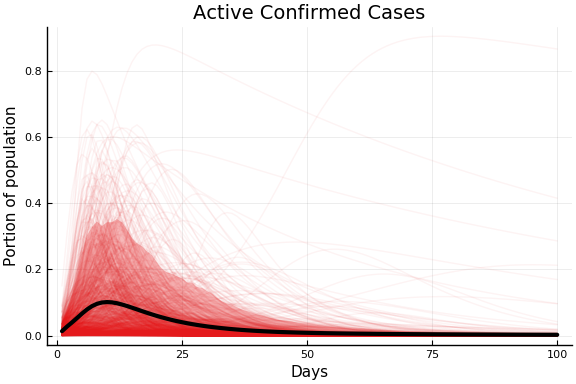
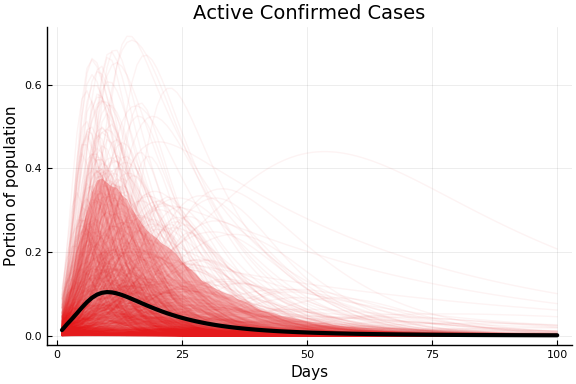
Deployed 2faefc0 with MkDocs version: 1.1

Changed region(s): [[0.0312, 0.2188, 0.9688, 0.9062], [0.0312, 0.1562, 0.0938, 0.25], [0.0312, 0.3438, 0.0938, 0.375]]

diff --git a/us/index.html b/us/index.html
@@ -8,7 +8,7 @@
         <meta name="author" content="Paul Schrimpf">
         
         <link rel="shortcut icon" href="../img/favicon.ico">
-        <title>Us - CovidSEIR.jl</title>
+        <title>United States - CovidSEIR.jl</title>
         <link href="../css/bootstrap.min.css" rel="stylesheet">
         <link href="../css/font-awesome.min.css" rel="stylesheet">
         <link href="../css/base.css" rel="stylesheet">
@@ -38,7 +38,7 @@
                             <li class="navitem">
                                 <a href=".." class="nav-link">Package Docs</a>
                             </li>
-                            <li class="dropdown">
+                            <li class="dropdown active">
                                 <a href="#" class="nav-link dropdown-toggle" data-toggle="dropdown">SEIR Model and Results <b class="caret"></b></a>
                                 <ul class="dropdown-menu">
                                     
@@ -65,6 +65,10 @@
 <li>
     <a href="../china/" class="dropdown-item">China</a>
 </li>
+            
+<li>
+    <a href="./" class="dropdown-item active">United States</a>
+</li>
     </ul>
   </li>
                                 </ul>
@@ -86,6 +90,16 @@
                                 <i class="fa fa-search"></i> Search
                             </a>
                         </li>
+                            <li class="nav-item">
+                                <a rel="prev" href="../china/" class="nav-link">
+                                    <i class="fa fa-arrow-left"></i> Previous
+                                </a>
+                            </li>
+                            <li class="nav-item">
+                                <a rel="next" href="../license/" class="nav-link">
+                                    Next <i class="fa fa-arrow-right"></i>
+                                </a>
+                            </li>
                             <li class="nav-item">
                                 <a href="https://github.com/schrimpf/CovidSEIR.jl/edit/master/docs/us.md" class="nav-link"><i class="fa fa-github"></i> Edit on GitHub</a>
                             </li>
@@ -132,7 +146,7 @@
 <p>This work is licensed under a <a href="http://creativecommons.org/licenses/by-sa/4.0/">Creative Commons Attribution-ShareAlike
 4.0 International
 License</a></p>
-<pre><code class="julia">using CovidSEIR,  Plots, DataFrames, JLD2, StatsPlots
+<pre><code class="julia">using CovidSEIR,  Plots, DataFrames, JLD2, StatsPlots, Dates
 Plots.pyplot()
 jmddir = normpath(joinpath(dirname(Base.find_package(&quot;CovidSEIR&quot;)),&quot;..&quot;,&quot;docs&quot;,&quot;jmd&quot;))
 covdf = covidjhudata()
@@ -170,8 +184,7 @@ n…  │
     │
 </code></pre>
 <h1 id="united-states">United States<a class="headerlink" href="#united-states" title="Permanent link">&para;</a></h1>
-<pre><code class="julia">using Dates
-us = CountryData(covdf, &quot;US&quot;)
+<pre><code class="julia">us = CountryData(covdf, &quot;US&quot;)
 </code></pre>
 
 <pre><code>CountryData{Float64,Int64}(3.2716743e8, [1, 2, 3, 4, 5, 6, 7, 8, 9, 10  …  
@@ -192,44 +205,67 @@ JLD2.@save &quot;$jmddir/us_$(Dates.today()).jld2&quot; cc
 <pre><code class="julia">JLD2.@load &quot;$jmddir/us_2020-03-29.jld2&quot; cc;
 </code></pre>
 
-<pre><code>Error: SystemError: opening file "/home/paul/.julia/dev/CovidSEIR/docs/jmd/
-us_2020-03-29.jld2": No such file or directory
-</code></pre>
 <h2 id="estimates">Estimates<a class="headerlink" href="#estimates" title="Permanent link">&para;</a></h2>
 <pre><code class="julia">plot(cc)
 </code></pre>
 
-<pre><code>Error: UndefVarError: cc not defined
-</code></pre>
+<p><img alt="" src="../figures/us_5_1.png" /></p>
 <pre><code class="julia">describe(cc)
 </code></pre>
 
-<pre><code>Error: UndefVarError: cc not defined
+<pre><code>2-element Array{ChainDataFrame,1}
+
+Summary Statistics
+  parameters       mean       std  naive_se     mcse       ess   r_hat
+  ──────────  ─────────  ────────  ────────  ───────  ────────  ──────
+           a     0.2578    0.2236    0.0035   0.0281   28.9598  1.2084
+         pE0     0.0000    0.0000    0.0000   0.0000   40.7244  1.0737
+        p[1]     0.1550    0.2385    0.0038   0.0353   16.0643  2.1637
+        p[2]     0.1750    0.2168    0.0034   0.0306   16.1263  1.5635
+        sigC  3250.3791  276.8554    4.3775  23.3872  127.0033  1.0383
+        sigD    15.4704    1.3358    0.0211   0.1058  138.2612  1.0541
+       sigRc   130.1036   11.5338    0.1824   1.1225  100.6532  1.0270
+        β[1]     0.6608    0.3892    0.0062   0.0475   25.1584  1.1746
+        β[2]     0.9818    0.5948    0.0094   0.0557   67.5039  1.0378
+        γ[1]     0.0781    0.1758    0.0028   0.0237   16.0643  1.5512
+        γ[2]     0.0627    0.0927    0.0015   0.0127   18.2814  1.3798
+           τ     1.2654    1.2940    0.0205   0.1408   23.9491  1.2885
+
+Quantiles
+  parameters       2.5%      25.0%      50.0%      75.0%      97.5%
+  ──────────  ─────────  ─────────  ─────────  ─────────  ─────────
+           a     0.0726     0.0916     0.1579     0.3530     0.8795
+         pE0     0.0000     0.0000     0.0000     0.0000     0.0000
+        p[1]     0.0044     0.0074     0.0205     0.2561     0.7636
+        p[2]     0.0041     0.0043     0.0610     0.3161     0.7002
+        sigC  2782.5660  3053.9273  3232.2901  3423.3506  3868.8805
+        sigD    13.2108    14.4476    15.3759    16.3514    18.3353
+       sigRc   110.3900   121.3695   129.2608   137.5283   155.6928
+        β[1]     0.0174     0.3448     0.6298     0.9960     1.2932
+        β[2]     0.0845     0.5994     0.9008     1.3112     2.4034
+        γ[1]     0.0003     0.0012     0.0022     0.0277     0.6009
+        γ[2]     0.0003     0.0016     0.0176     0.0925     0.3195
+           τ     0.0060     0.0496     0.9774     2.0367     4.4018
 </code></pre>
 <h2 id="fit">Fit<a class="headerlink" href="#fit" title="Permanent link">&para;</a></h2>
 <pre><code class="julia">sdf = simtrajectories(cc, us, 1:150)
+f = plotvars(sdf, us)
+plot(f.fit, ylim=(0, maximum(us.active)*1.3))
 </code></pre>
 
-<pre><code>Error: UndefVarError: cc not defined
-</code></pre>
-<pre><code class="julia">f = plotvars(sdf, us)
-</code></pre>
-
-<pre><code>Error: UndefVarError: sdf not defined
-</code></pre>
-<pre><code class="julia">plot(f.fit, xlim=nothing, ylim=nothing)
-</code></pre>
-
-<pre><code>Error: UndefVarError: f not defined
-</code></pre>
+<p><img alt="" src="../figures/us_7_1.png" /></p>
 <h2 id="implications">Implications<a class="headerlink" href="#implications" title="Permanent link">&para;</a></h2>
 <pre><code class="julia">for fig in f.trajectories
-  display(plot(fig, xlim=nothing))
+  display(plot(fig))
 end
 </code></pre>
 
-<pre><code>Error: UndefVarError: f not defined
-</code></pre></div>
+<p><img alt="" src="../figures/us_8_1.png" /> <img alt="" src="../figures/us_8_2.png" /> <img alt="" src="../figures/us_8_3.png" />
+<img alt="" src="../figures/us_8_4.png" /> <img alt="" src="../figures/us_8_5.png" /> <img alt="" src="../figures/us_8_6.png" />
+<img alt="" src="../figures/us_8_7.png" /> <img alt="" src="../figures/us_8_8.png" /> <img alt="" src="../figures/us_8_9.png" />
+<img alt="" src="../figures/us_8_10.png" /> <img alt="" src="../figures/us_8_11.png" />
+<img alt="" src="../figures/us_8_12.png" /> <img alt="" src="../figures/us_8_13.png" />
+<img alt="" src="../figures/us_8_14.png" /></p></div>
             </div>
         </div>
 

diff --git a/covid/index.html b/covid/index.html
@@ -65,6 +65,10 @@
 <li>
     <a href="../china/" class="dropdown-item">China</a>
 </li>
+            
+<li>
+    <a href="../us/" class="dropdown-item">United States</a>
+</li>
     </ul>
   </li>
                                 </ul>
@@ -214,9 +218,9 @@ que │
 n…  │
 ├─────┼───────────┼───────────┼─────────────┼───────────┼────────────┼─────
 ────┤
-│ 1   │ Date      │           │ 2020-01-22  │           │ 2020-03-28 │ 67  
+│ 1   │ Date      │           │ 2020-01-22  │           │ 2020-03-29 │ 68  
     │
-│ 2   │ confirmed │ 486.367   │ 0           │ 0.0       │ 121478     │     
+│ 2   │ confirmed │ 521.072   │ 0           │ 0.0       │ 140886     │     
     │
 │ 3   │ Province  │           │ Alberta     │           │ Zhejiang   │ 79  
     │
@@ -226,13 +230,13 @@ n…  │
     │
 │ 6   │ Long      │ 23.2675   │ -135.0      │ 20.9394   │ 178.065    │     
     │
-│ 7   │ deaths    │ 18.9005   │ 0           │ 0.0       │ 10023      │     
+│ 7   │ deaths    │ 20.5945   │ 0           │ 0.0       │ 10779      │     
     │
-│ 8   │ recovered │ 162.121   │ 0           │ 0.0       │ 62098      │     
+│ 8   │ recovered │ 168.91    │ 0           │ 0.0       │ 62570      │     
     │
-│ 9   │ iso2c     │           │ AD          │           │ ZW         │ 170 
+│ 9   │ iso2c     │           │ AD          │           │ ZW         │ 171 
     │
-│ 10  │ cpop      │ 2.27709e8 │ 33785.0     │ 2.49924e7 │ 1.39273e9  │     
+│ 10  │ cpop      │ 2.2813e8  │ 33785.0     │ 2.49924e7 │ 1.39273e9  │     
     │
 │ 11  │ ppop      │ 2.74801e7 │ 41078       │ 1.557e7   │ 111690000  │     
     │
@@ -356,39 +360,39 @@ defaultcountrypriors() = Dict(
 pr.tbl
 </code></pre>
 
-<pre><code>2-element Array{ChainDataFrame,1}
+<pre><code>2-element Array{MCMCChains.ChainDataFrame,1}
 
 Summary Statistics
   parameters    mean      std  naive_se    mcse       ess   r_hat
   ──────────  ──────  ───────  ────────  ──────  ────────  ──────
-           a  0.5263   0.2802    0.0177  0.0144  253.4545  0.9993
-         pE0  0.0790   0.0569    0.0036  0.0013  219.9777  0.9962
-        p[1]  0.2529   0.1830    0.0116  0.0114  250.8090  1.0134
-        p[2]  0.2775   0.1932    0.0122  0.0136  254.2063  1.0005
-        sigC  5.3357  19.4971    1.2331  2.2379  106.4011  1.0048
-        sigD  2.6446   2.8749    0.1818  0.0606  255.7700  0.9983
-       sigRc  2.9380   3.2822    0.2076  0.3147  183.8356  0.9997
-        β[1]  1.0184   0.6905    0.0437  0.0276  177.6735  0.9965
-        β[2]  0.9892   0.6673    0.0422  0.0383  306.2808  0.9963
-        γ[1]  0.4392   0.3100    0.0196  0.0236  141.3713  1.0004
-        γ[2]  0.2534   0.1762    0.0111  0.0172  233.4862  0.9990
-           τ  1.6999   1.2119    0.0766  0.0266  194.4783  0.9967
+           a  0.5654   0.2686    0.0170  0.0188  255.2811  0.9997
+         pE0  0.0854   0.0654    0.0041  0.0058  310.1646  0.9974
+        p[1]  0.2459   0.1867    0.0118  0.0113  240.1762  0.9963
+        p[2]  0.2600   0.1719    0.0109  0.0023  362.0081  0.9960
+        sigC  3.4108  10.0378    0.6348  0.9028  174.6732  1.0012
+        sigD  3.1483   3.6424    0.2304  0.4784  109.6841  0.9964
+       sigRc  2.8166   3.5338    0.2235  0.3084  211.0814  0.9962
+        β[1]  0.9970   0.7070    0.0447  0.0903  442.4055  1.0014
+        β[2]  1.0751   0.7259    0.0459  0.0050  420.5231  0.9960
+        γ[1]  0.4729   0.3576    0.0226  0.0133  493.1301  0.9960
+        γ[2]  0.2401   0.1790    0.0113  0.0155  307.0043  0.9960
+           τ  1.7502   1.3210    0.0835  0.0229  420.2080  0.9961
 
 Quantiles
   parameters    2.5%   25.0%   50.0%   75.0%    97.5%
   ──────────  ──────  ──────  ──────  ──────  ───────
-           a  0.0882  0.2886  0.5393  0.7772   0.9620
-         pE0  0.0024  0.0317  0.0737  0.1120   0.1978
-        p[1]  0.0103  0.1069  0.2219  0.3703   0.6743
-        p[2]  0.0245  0.1275  0.2323  0.4044   0.7057
-        sigC  0.4777  1.0103  2.0044  4.2405  23.2499
-        sigD  0.4950  1.0583  1.7059  3.2054  10.6279
-       sigRc  0.5365  1.0271  1.8202  3.4039  14.0304
-        β[1]  0.0497  0.4025  1.0116  1.4657   2.4971
-        β[2]  0.0792  0.4397  0.9270  1.3470   2.4682
-        γ[1]  0.0484  0.1741  0.3665  0.6558   1.1198
-        γ[2]  0.0132  0.1159  0.2213  0.3556   0.6721
-           τ  0.0273  0.7080  1.4394  2.4266   4.3182
+           a  0.1265  0.3293  0.5625  0.8090   0.9721
+         pE0  0.0054  0.0297  0.0734  0.1242   0.2384
+        p[1]  0.0087  0.1004  0.2080  0.3539   0.6629
+        p[2]  0.0135  0.1341  0.2363  0.3662   0.6451
+        sigC  0.6001  1.2797  1.9516  3.0770  14.1916
+        sigD  0.5913  1.1629  1.9222  3.3838  14.8259
+       sigRc  0.4710  1.0214  1.8535  3.3675  11.1009
+        β[1]  0.0337  0.4814  0.8895  1.3505   2.7546
+        β[2]  0.0904  0.4408  0.9420  1.5911   2.5477
+        γ[1]  0.0159  0.1908  0.3636  0.7015   1.2829
+        γ[2]  0.0053  0.0987  0.1977  0.3463   0.6898
+           τ  0.1238  0.7963  1.3958  2.5012   5.0382
 </code></pre>
 <p>The following plots show the implications of this prior for the observed
 data. The faint lines on each figure shows 1000 trajectories sampled
@@ -422,6 +426,7 @@ for the results.</p>
 <li><a href="italy">Italy</a></li>
 <li><a href="korea">South Korea</a></li>
 <li><a href="china">China</a></li>
+<li><a href="US">United States</a></li>
 </ul>
 <h1 id="extensions">Extensions<a class="headerlink" href="#extensions" title="Permanent link">&para;</a></h1>
 <ol>

diff --git a/china/index.html b/china/index.html
@@ -65,6 +65,10 @@
 <li>
     <a href="./" class="dropdown-item active">China</a>
 </li>
+            
+<li>
+    <a href="../us/" class="dropdown-item">United States</a>
+</li>
     </ul>
   </li>
                                 </ul>
@@ -92,7 +96,7 @@
                                 </a>
                             </li>
                             <li class="nav-item">
-                                <a rel="next" href="../license/" class="nav-link">
+                                <a rel="next" href="../us/" class="nav-link">
                                     Next <i class="fa fa-arrow-right"></i>
                                 </a>
                             </li>

diff --git a/license/index.html b/license/index.html
@@ -65,6 +65,10 @@
 <li>
     <a href="../china/" class="dropdown-item">China</a>
 </li>
+            
+<li>
+    <a href="../us/" class="dropdown-item">United States</a>
+</li>
     </ul>
   </li>
                                 </ul>
@@ -87,7 +91,7 @@
                             </a>
                         </li>
                             <li class="nav-item">
-                                <a rel="prev" href="../china/" class="nav-link">
+                                <a rel="prev" href="../us/" class="nav-link">
                                     <i class="fa fa-arrow-left"></i> Previous
                                 </a>
                             </li>

diff --git a/index.html b/index.html
@@ -65,6 +65,10 @@
 <li>
     <a href="china/" class="dropdown-item">China</a>
 </li>
+            
+<li>
+    <a href="us/" class="dropdown-item">United States</a>
+</li>
     </ul>
   </li>
                                 </ul>
@@ -232,5 +236,5 @@
 
 <!--
 MkDocs version : 1.1
-Build Date UTC : 2020-03-30 00:20:56
+Build Date UTC : 2020-03-30 01:28:53
 -->

diff --git a/canada/index.html b/canada/index.html
@@ -65,6 +65,10 @@
 <li>
     <a href="../china/" class="dropdown-item">China</a>
 </li>
+            
+<li>
+    <a href="../us/" class="dropdown-item">United States</a>
+</li>
     </ul>
   </li>
                                 </ul>

diff --git a/functions/index.html b/functions/index.html
@@ -65,6 +65,10 @@
 <li>
     <a href="../china/" class="dropdown-item">China</a>
 </li>
+            
+<li>
+    <a href="../us/" class="dropdown-item">United States</a>
+</li>
     </ul>
   </li>
                                 </ul>

diff --git a/italy/index.html b/italy/index.html
@@ -65,6 +65,10 @@
 <li>
     <a href="../china/" class="dropdown-item">China</a>
 </li>
+            
+<li>
+    <a href="../us/" class="dropdown-item">United States</a>
+</li>
     </ul>
   </li>
                                 </ul>

diff --git a/korea/index.html b/korea/index.html
@@ -65,6 +65,10 @@
 <li>
     <a href="../china/" class="dropdown-item">China</a>
 </li>
+            
+<li>
+    <a href="../us/" class="dropdown-item">United States</a>
+</li>
     </ul>
   </li>
                                 </ul>

diff --git a/404.html b/404.html
@@ -65,6 +65,10 @@
 <li>
     <a href="/china/" class="dropdown-item">China</a>
 </li>
+            
+<li>
+    <a href="/us/" class="dropdown-item">United States</a>
+</li>
     </ul>
   </li>
                                 </ul>
